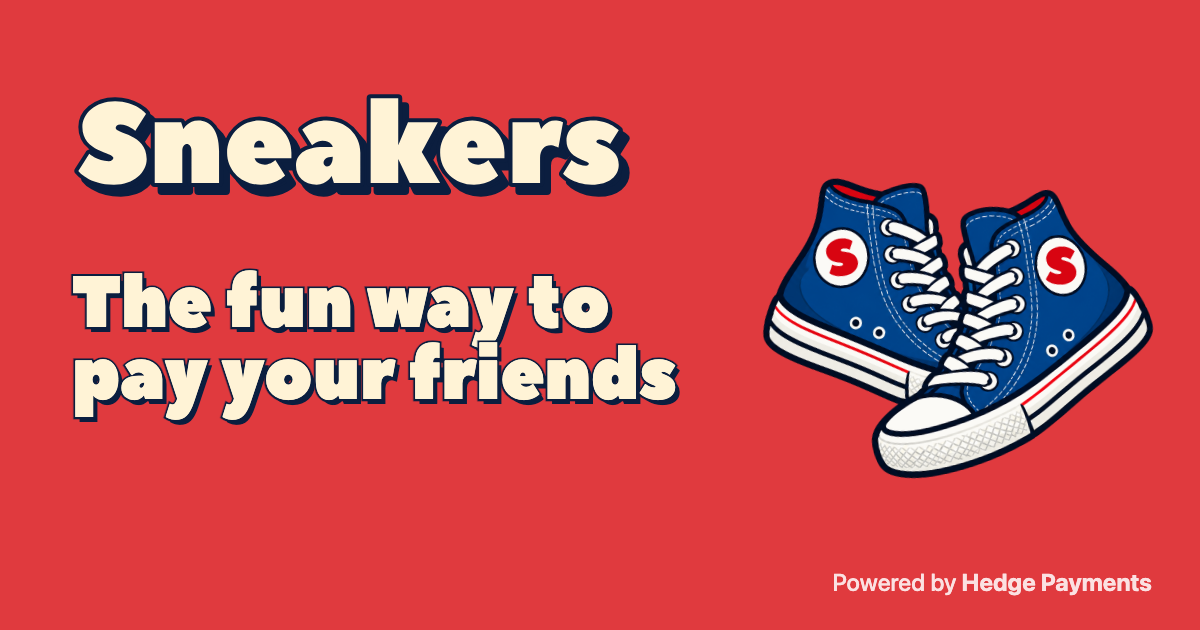
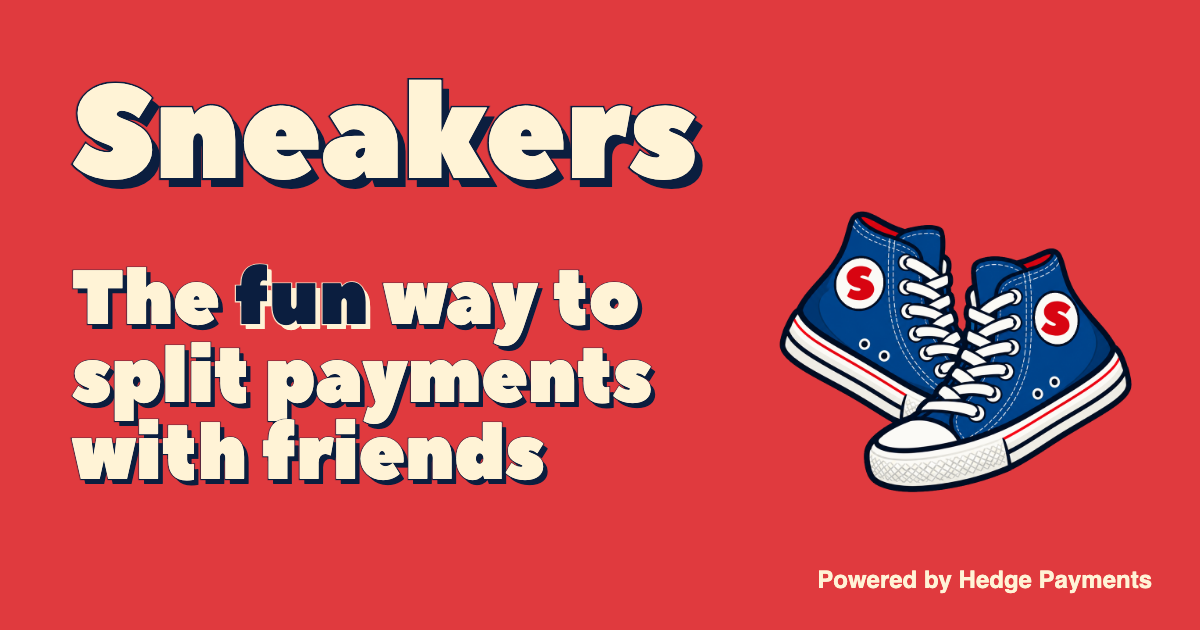
Landing link preview: 'The fun way to split payments with friends' in the title, description and a new share image

diff --git a/apps/platform/src/app/page.tsx b/apps/platform/src/app/page.tsx
@@ -11,23 +11,25 @@ import { Wordmark } from './wordmark'
 const RED = '#E03A3E'
 const CREAM = '#FFF3D6'
 const NAVY = '#0B1E3F'
-const NAME = 'Sneakers'
 const POWERED_BY = 'Hedge Payments'
 // Where Sign up goes while Sneakers is launching soon: the waitlist page. (Log in still goes to the app's sign-in for invited testers.)
 const SIGN_UP_URL = '/launching-soon'
 const SIGN_IN_URL = 'https://pay.sneakersterminal.com/'
 const HEADLINE = 'Paying your friends back should be fun!'
 const SUBLINE = 'Sneakers is the fun way to pay your friends.'
+// What a text or a post shows as the link preview (with opengraph-image.png and twitter-image.png).
+const SHARE_TITLE = 'Sneakers: the fun way to split payments with friends'
+const SHARE_DESCRIPTION = 'Pay friends back, split the bill, and keep one tab for the trip. The fun way to split payments with friends.'
 // How the line breaks: short lines read as a poster, not a sentence. Four on a phone (so the letters can be bigger), three wider.
 const PHONE_LINES = ['Paying', 'your', 'friends', 'back', 'should', 'be', 'fun!']
 const WIDE_LINES = ['Paying your', 'friends back', 'should be', 'fun!']
 
 export const metadata: Metadata = {
-  title: 'Sneakers',
-  description: HEADLINE,
+  title: SHARE_TITLE,
+  description: SHARE_DESCRIPTION,
   openGraph: {
-    title: NAME,
-    description: HEADLINE,
+    title: SHARE_TITLE,
+    description: SHARE_DESCRIPTION,
     url: 'https://sneakersterminal.com',
     siteName: 'Sneakers',
     type: 'website',
@@ -35,8 +37,8 @@ export const metadata: Metadata = {
   },
   twitter: {
     card: 'summary_large_image',
-    title: NAME,
-    description: HEADLINE,
+    title: SHARE_TITLE,
+    description: SHARE_DESCRIPTION,
   },
 }
 
